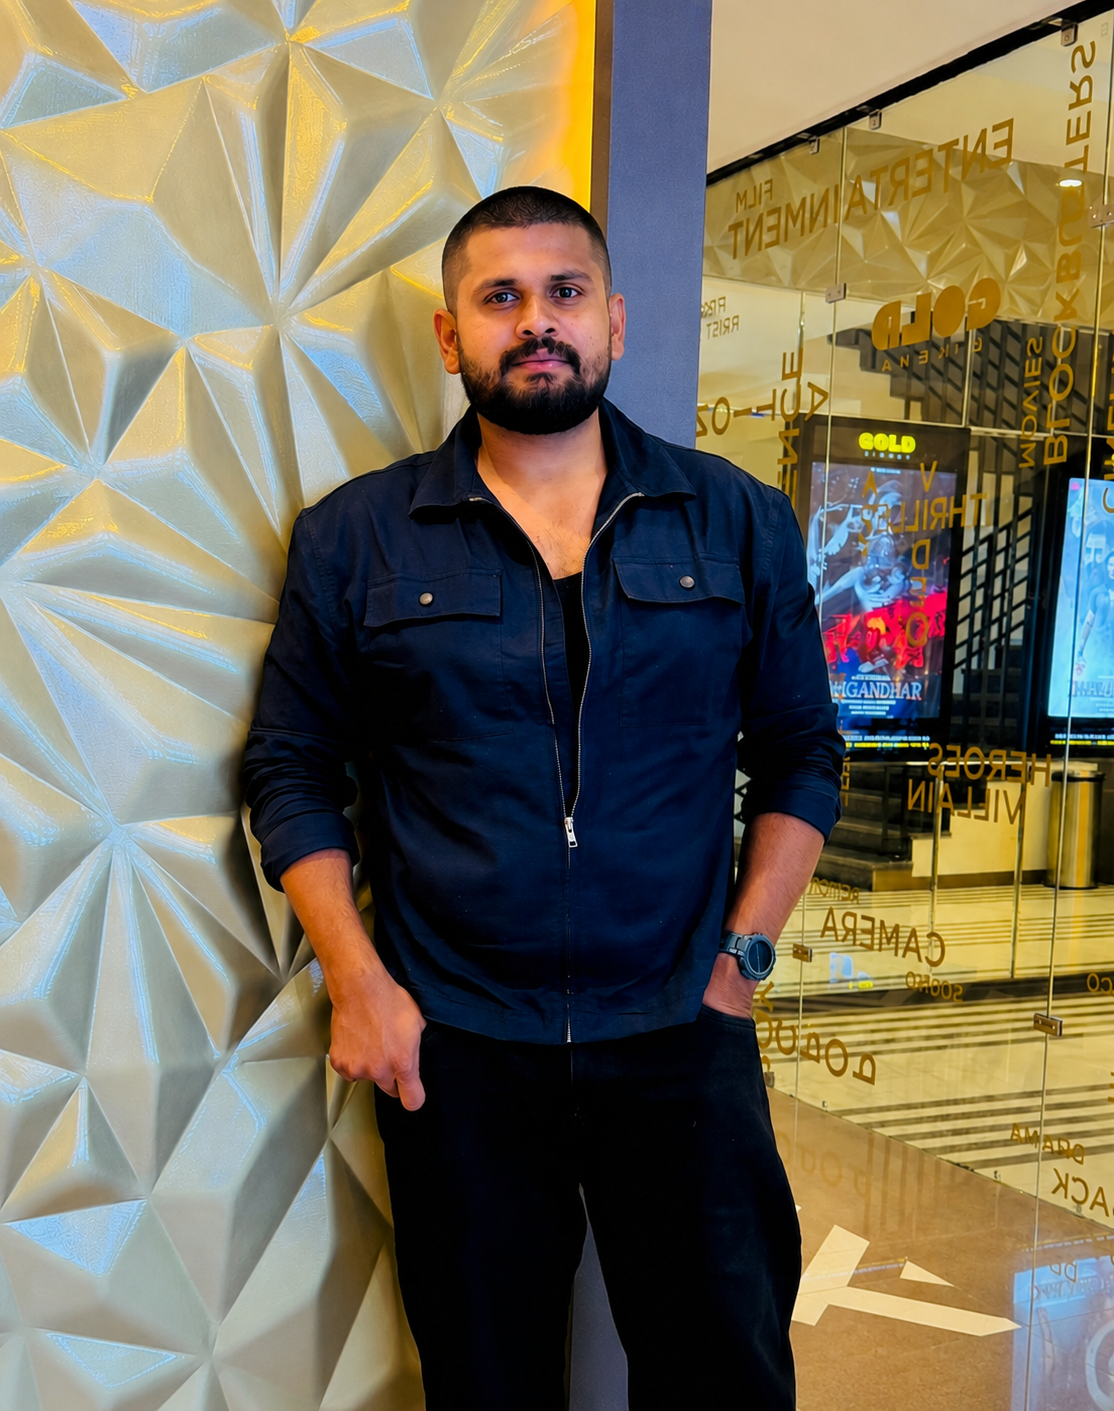
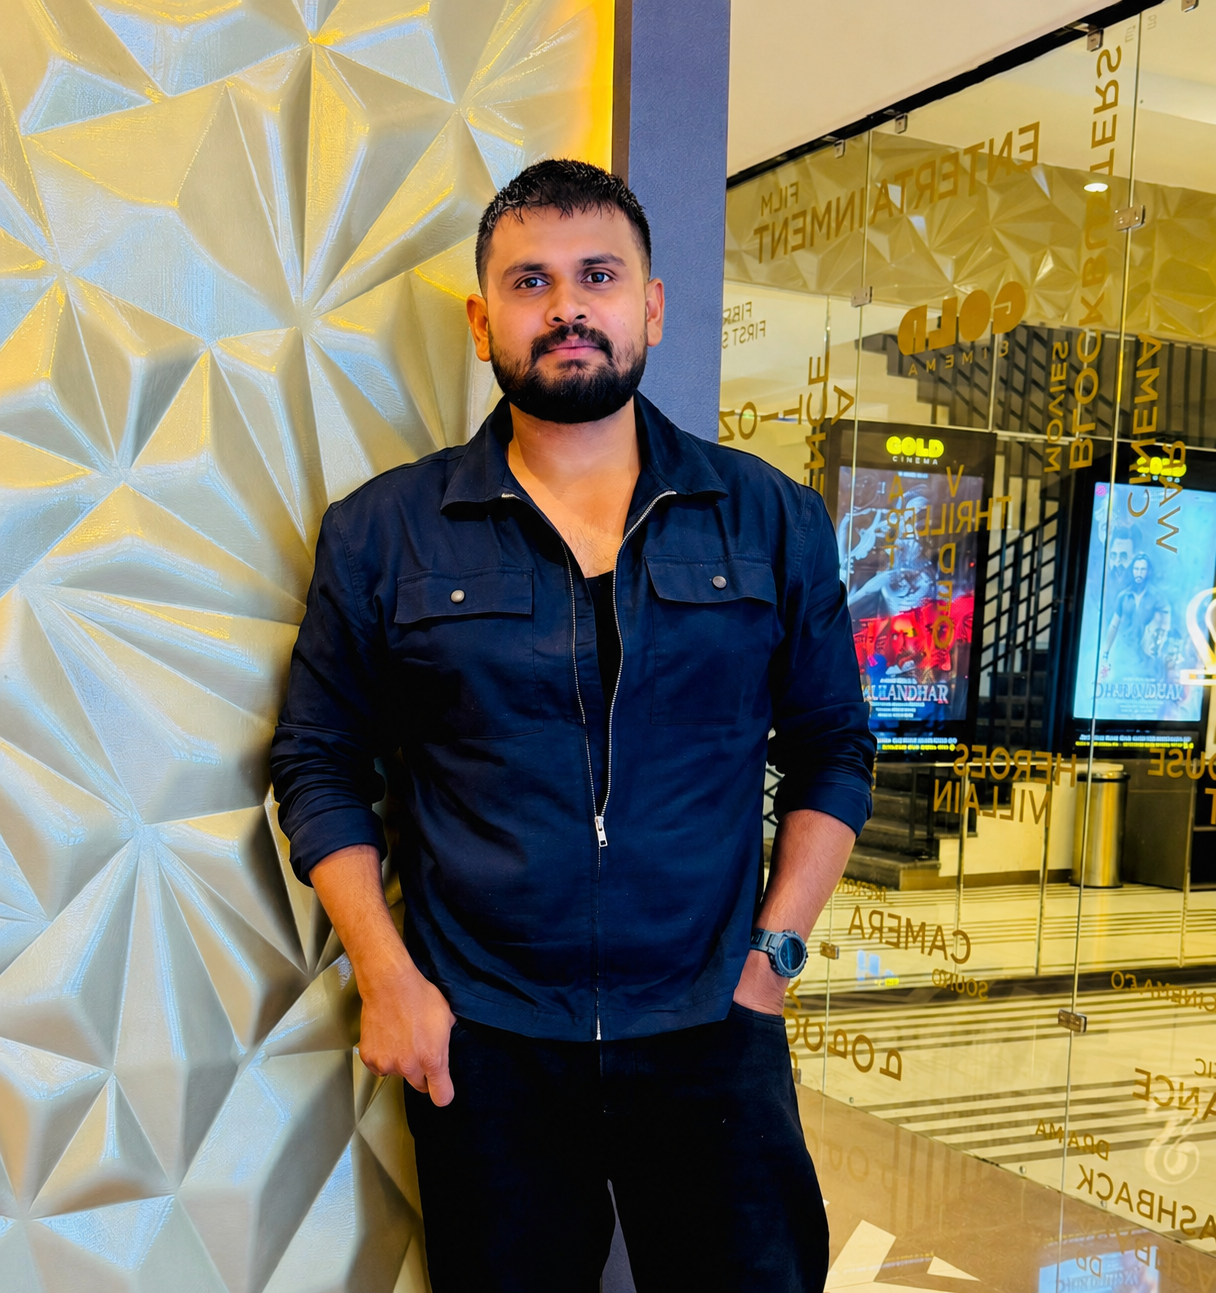
Add featured projects and update profile photo

diff --git a/src/data/portfolioData.js b/src/data/portfolioData.js
@@ -49,8 +49,8 @@ export const portfolioData = {
       suffix: "+",
     },
     { label: "Product Domains", value: 4, suffix: "+" },
-    { label: "Featured Projects", value: 4 },
-    { label: "Full-Stack Build", value: 1 },
+    { label: "Featured Projects", value: 7 },
+    { label: "Full-Stack Build", value: 3 },
   ],
 
   experience: [
@@ -102,6 +102,77 @@ export const portfolioData = {
   ],
 
   projects: [
+    {
+      id: 5,
+      name: "Dhunify",
+      domain: "Music Streaming / Full-Stack Web Application",
+      description:
+        "A responsive legal music streaming platform with smart search, full-track playback, playlists, favorites, and a polished multi-device player experience.",
+      features: [
+        "Smart multi-source music search",
+        "Queue, seek, shuffle, and repeat controls",
+        "Favorites, history, and custom playlists",
+        "Responsive mini and full-screen player",
+        "Artist pages and resilient artwork",
+        "Legal music source integrations",
+      ],
+      technologies: [
+        "React.js",
+        "Vite",
+        "Tailwind CSS",
+        "Zustand",
+        "Node.js",
+        "Express.js",
+        "MongoDB",
+      ],
+      link: "https://dhunify.vercel.app",
+      codeLink: "https://github.com/govindrtn/freewave-music",
+    },
+    {
+      id: 6,
+      name: "SplitAdda",
+      domain: "Expense Sharing / Full-Stack Web Application",
+      description:
+        "An INR-focused expense sharing application for friends, flatmates, teams, and trips, with flexible bill splits and simplified settlement suggestions.",
+      features: [
+        "JWT authentication and session restore",
+        "Groups, friends, and shared expenses",
+        "Equal, exact, and percentage splits",
+        "Balance and settlement summaries",
+        "Responsive dashboard and mobile navigation",
+        "Dark mode and UI animations",
+      ],
+      technologies: [
+        "React.js",
+        "Vite",
+        "Tailwind CSS",
+        "Zustand",
+        "Node.js",
+        "Express.js",
+        "MongoDB",
+      ],
+      link: null,
+      codeLink: null,
+      status: "In Development",
+    },
+    {
+      id: 7,
+      name: "Roshan Sweets Menu",
+      domain: "Restaurant / Digital Menu",
+      description:
+        "A bilingual digital menu for Roshan Sweets featuring fast food discovery, authentic product visuals, business details, and direct location and contact access.",
+      features: [
+        "English and Hindi language switch",
+        "Category filters and food search",
+        "Responsive menu-first layout",
+        "Permanent QR menu access",
+        "Google Maps and call actions",
+        "Animated branded interface",
+      ],
+      technologies: ["React.js", "Vite", "Tailwind CSS", "JavaScript", "CSS Animations"],
+      link: "https://roshan-sweets-menu.vercel.app",
+      codeLink: "https://github.com/govindrtn/roshan-sweets-qr-menu",
+    },
     {
       id: 4,
       name: "Silver Gym Management System",

diff --git a/src/index.css b/src/index.css
@@ -216,11 +216,11 @@ section {
 
 .profile-image-wrap {
   background-image: linear-gradient(135deg, var(--accent), var(--accent-deep));
-  @apply aspect-square overflow-hidden rounded-[1.5rem];
+  @apply aspect-[15/16] overflow-hidden rounded-[1.5rem];
 }
 
 .profile-image {
-  @apply h-full w-full object-cover object-center;
+  @apply h-full w-full object-cover object-top;
 }
 
 .profile-status {

diff --git a/src/components/Projects.jsx b/src/components/Projects.jsx
@@ -139,7 +139,7 @@ export function Projects() {
                 ) : (
                   <span className="project-action flex-1 inline-flex items-center justify-center gap-2 py-2 px-4 rounded-lg text-sm font-medium">
                     <Lock className="w-4 h-4" />
-                    Private Project
+                    {project.status || "Private Project"}
                   </span>
                 )}
                 {project.codeLink && (